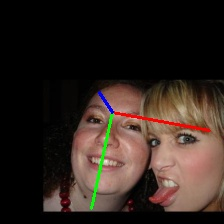
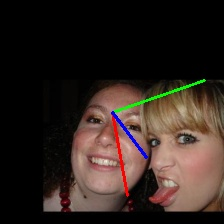
Fixing Loss_2

Changed region(s): [[0.375, 0.3438, 0.9375, 0.9375]]

diff --git a/sanity_check.py b/sanity_check.py
@@ -23,7 +23,7 @@ input_shape = (224, 224, 3)
 training_data_generator, validation_data_generator = loading_generators(dataset='300w',\
       input_shape=input_shape, batch_size=32, shuffle=True)
 
-list_ids = ["300W-LP/300W_LP/HELEN_Flip/HELEN_1269874180_1_0", "300W-LP/300W_LP/AFW/AFW_134212_1_2"]#,\
+list_ids = ["300W-LP/300W_LP/HELEN_Flip/HELEN_1269874180_1_0"]#, "300W-LP/300W_LP/AFW/AFW_134212_1_2"]#,\
     #  "300W-LP/300W_LP/AFW/AFW_4512714865_1_3", "300W-LP/300W_LP/LFPW_Flip/LFPW_image_train_0737_13",
     #   "300W-LP/300W_LP/LFPW_Flip/LFPW_image_train_0047_4"]
 images, y = training_data_generator.data_generation(list_ids)
@@ -35,12 +35,16 @@ loss_function = Synergy_Loss()
 
 model.compile(optimizer, tf.keras.losses.Huber())
 print(model.summary())
-model.fit(images, y, verbose=1, epochs=3000)
+model.fit(images, y, verbose=1, epochs=5000)
 
-poses_tf = model.predict(images)
-print("Y = ", y)
+DMM = model.predict(images)
+
+poses_pred = DMM[:, 0:12]
+poses_gt = y[:, 0:12]
+
+print("GT = ", poses_gt)
 print()
-print("Y_hat = ", poses_tf)
+print("Pred = ", poses_pred)
 # poses_hat = poses_tf.numpy()
 # vertices = vertices_tf.numpy()
 
@@ -50,8 +54,8 @@ print("Y_hat = ", poses_tf)
 #     plot_landmarks(images[i], y[1][i], name='sanity_lmk_gt_'+str(i))
 
 for i in range(len(list_ids)):
-  plot_pose(images[i], poses_tf[i], name='sanity_poses_pred_'+str(i))
-  plot_pose(images[i], y[0][i], name='sanity_poses_gt_'+str(i))
+  plot_pose(images[i], poses_pred[i], name='sanity_poses_pred_'+str(i))
+  plot_pose(images[i], poses_gt[i], name='sanity_poses_gt_'+str(i))
 
 # from matplotlib import pyplot as plt
 # plt.scatter(vertices[:, 0], vertices[:, 1])

diff --git a/model/synergy.py b/model/synergy.py
@@ -13,13 +13,12 @@ def create_synergy(input_shape, num_classes=62, num_points=68):
     X = create_MobileNetV2(input_shape=input_shape, classes=num_classes)(inputs)
     X = GlobalAveragePooling2D(name='Global_Avg_Pooling')(X)
     Z = tf.identity(X)
-    X_p = Dropout(0.2)(X)
-    pose_3DMM = Dense(name='pose_3DMM', units=12)(X_p)
-    X_exp = Dropout(0.2)(X)
-    alpha_exp = Dense(name='alpha_exp', units=10)(X_exp)
-    X_shape = Dropout(0.2)(X)
-    alpha_shp = Dense(name='alpha_shp', units=40)(X_shape)
-
+#     X_p = Dropout(0.2)(X)
+    pose_3DMM = Dense(name='pose_3DMM', units=12)(X)
+#     X_exp = Dropout(0.2)(X)
+    alpha_exp = Dense(name='alpha_exp', units=10)(X)
+#     X_shape = Dropout(0.2)(X)
+    alpha_shp = Dense(name='alpha_shp', units=40)(X)
 #     morphable_model = PCA(input_shape=input_shape, name='Morphable_layer')
     
 #     Lc = morphable_model(pose_3DMM, alpha_exp, alpha_shp)
@@ -28,9 +27,9 @@ def create_synergy(input_shape, num_classes=62, num_points=68):
 #     pose_3DMM_hat, alpha_exp, alpha_shp = Landmarks_to_3DMM(num_classes=num_classes,\
 #          num_points=num_points)(Lr)
 #     print(pose_3DMM_hat.shape)
-
+    y = tf.concat([pose_3DMM, alpha_exp, alpha_shp], 1)
     model = Model(inputs=[inputs],\
-          outputs=[pose_3DMM, alpha_exp, alpha_shp], name='Synergy')
+          outputs=[y], name='Synergy')
     return model
 
 class Synergy(Model):

diff --git a/losses.py b/losses.py
@@ -18,12 +18,12 @@ class Synergy_Loss(Loss):
         
     def call(self, y_gt, y_pred):
         pose_3DMM_gt = y_gt[:, 0:12]
-        pose_3DMM = y_pred[0]
+        pose_3DMM = y_pred[:, 0:12]
 
         alpha_exp_gt = y_gt[:, 12:22]
         alpha_shp_gt = y_gt[:, 22:62]
-        alpha_exp = y_pred[1]
-        alpha_shp = y_pred[2]
+        alpha_exp = y_pred[:, 12:22]
+        alpha_shp = y_pred[:, 22:62]
 
         L_gt = self.pca(pose_3DMM_gt, alpha_exp_gt, alpha_shp_gt)
         Lr = self.pca(pose_3DMM, alpha_exp, alpha_shp)

diff --git a/data_generator/labels_preprocessing.py b/data_generator/labels_preprocessing.py
@@ -9,7 +9,6 @@ def label_loader(image_id, labels, aspect_ratio):
     alpha_Shape = np.ravel(np.array(labels[image_id]['Shape_Para']).T)
     pt2d = np.array(labels[image_id]['pt2d']).T
     pt2d = resize_landmarks(pt2d, aspect_ratio)
-    print(pose_3DMM.shape, alpha_exp.shape, alpha_Shape.shape)
     return pose_3DMM, pt2d, alpha_exp, alpha_Shape
 
 def pose_to_3DMM(pose):

diff --git a/data_generator/data_generator.py b/data_generator/data_generator.py
@@ -69,7 +69,6 @@ class DataGenerator(tf.keras.utils.Sequence):
         exps = np.array(exps)
         shps = np.array(shps)
         y = np.concatenate([pose_parameters, exps, shps], 1)
-        print(y.shape)
         return X, y
 
     def get_one_instance(self, id):
